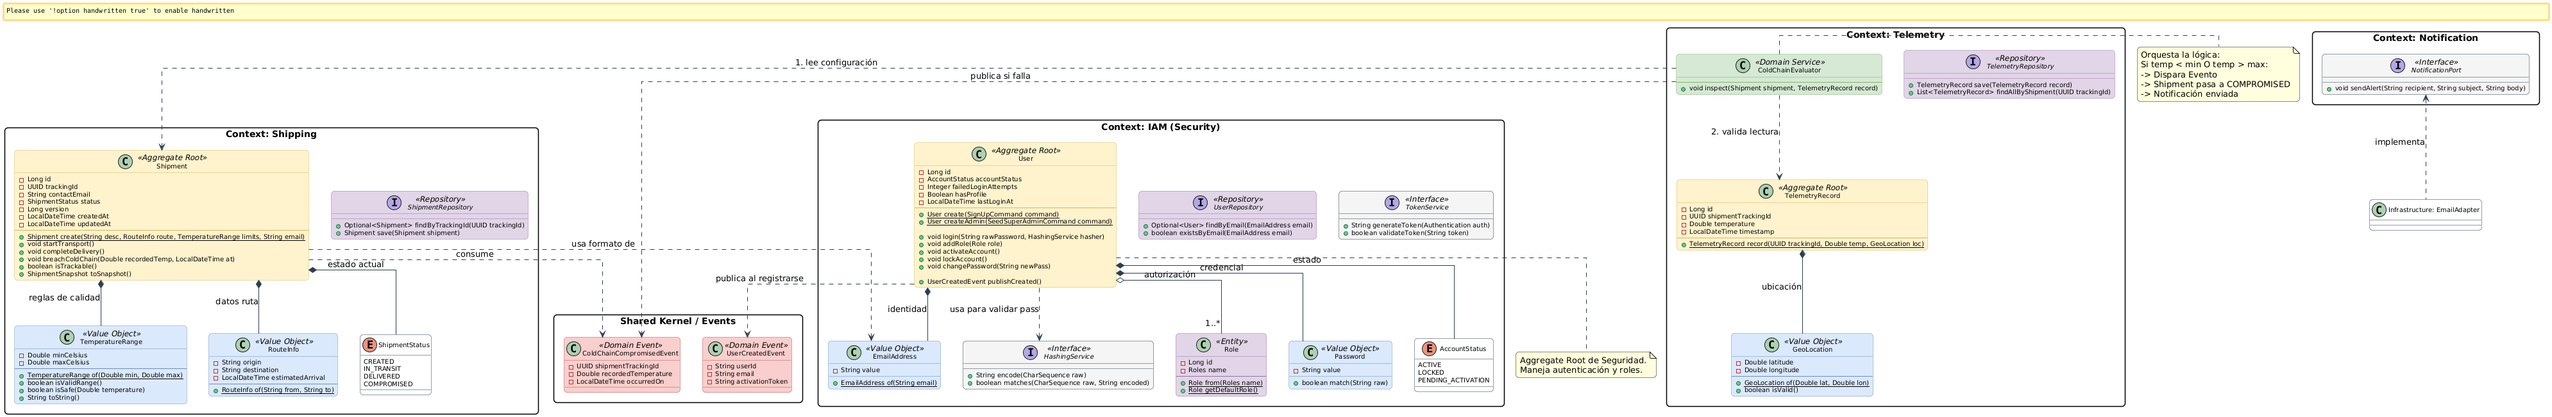
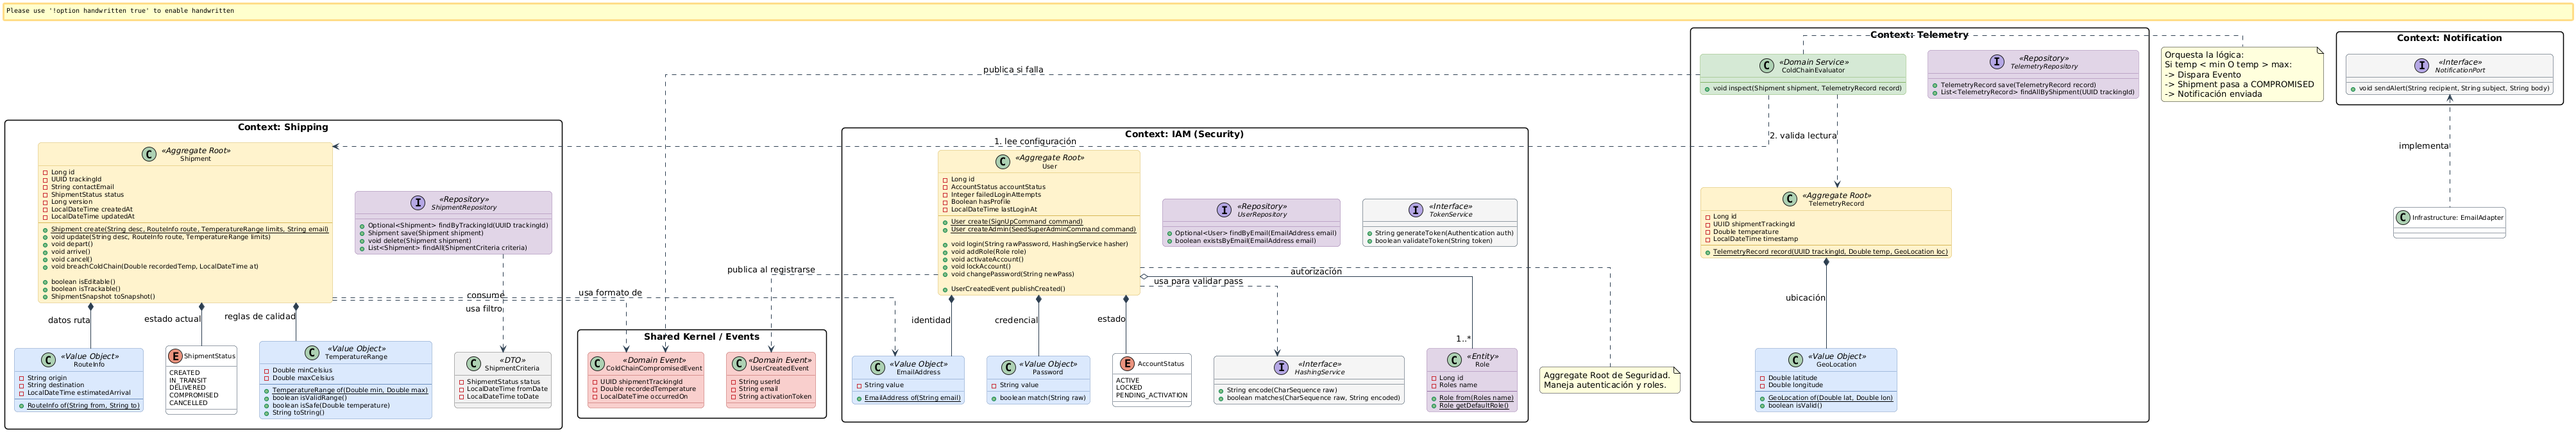
docs: add shipment modification stories and update class diagram
Added 3 user stories regarding shipment updates and cancellation.
Refactored the class diagram to support this new functionality.

diff --git a/README.md b/README.md
@@ -25,15 +25,18 @@ Para acotar el alcance del MVP, he identificado dos actores principales que inte
 
 ### 2. Product backlog
 
-| Story ID | Título                                       | Descripción                                                                                                                                                                                        | Criterios de aceptación                                                                                                                                                                                                                                                                                                                                                                                                                                                                                                                                                                                                                                                                                                                                                                                                                                        |
-|----------|----------------------------------------------|----------------------------------------------------------------------------------------------------------------------------------------------------------------------------------------------------|----------------------------------------------------------------------------------------------------------------------------------------------------------------------------------------------------------------------------------------------------------------------------------------------------------------------------------------------------------------------------------------------------------------------------------------------------------------------------------------------------------------------------------------------------------------------------------------------------------------------------------------------------------------------------------------------------------------------------------------------------------------------------------------------------------------------------------------------------------------|
-| US01     | **Registro de nuevo envío (Shipment)**       | Como operador logístico, quiero registrar un nuevo envío en el sistema definiendo sus metadatos y rangos de seguridad, para iniciar el ciclo de vida de transporte monitoreado.                    | **Escenario 1: Registro exitoso (Happy Path)**<br>Given el operador tiene los datos del envío<br>When ingresa Descripción="Vacunas COVID", TempMin=2.0, TempMax=8.0<br>Then el sistema crea el envío con estado "CREATED"<br>And genera un ID único de seguimiento (UUID).<br><br>**Escenario 2: Validación de rangos inválidos (Unhappy Path)**<br>Given el operador intenta crear un envío<br>When ingresa TempMin=10.0 y TempMax=5.0<br>Then el sistema rechaza la operación<br>And muestra el error "La temperatura mínima no puede ser mayor a la máxima".<br><br>**Escenario 3: Datos incompletos (Unhappy Path)**<br>Given el operador omite el cliente destinatario<br>When intenta guardar<br>Then el sistema muestra error de "Campos obligatorios requeridos".                                                                                      |
-| US02     | **Cambio de estado a "En tránsito"**         | Como operador logístico, quiero cambiar el estado del envío a "IN_TRANSIT" cuando el camión sale del almacén, para habilitar la recepción de lecturas de sensores.                                 | **Escenario 1: Despacho exitoso (Happy Path)**<br>Given un envío en estado "CREATED"<br>When el operador selecciona "Iniciar Transporte"<br>Then el estado cambia a "IN_TRANSIT".<br><br>**Escenario 2: Transición ilegal (Unhappy Path)**<br>Given un envío que ya fue finalizado ("DELIVERED")<br>When el operador intenta iniciarlo nuevamente<br>Then el sistema bloquea la acción indicando que el flujo ya concluyó.                                                                                                                                                                                                                                                                                                                                                                                                                                     |
-| US03     | **Registro de telemetría (Checkpoint)**      | Como sensor IoT (sistema externo), quiero enviar lecturas periódicas de ubicación y temperatura al sistema, para mantener la trazabilidad del activo en tiempo real.                               | **Escenario 1: Lectura válida (Happy Path)**<br>Given un envío existente en estado "IN_TRANSIT"<br>When el sensor envía {Lat: -12.04, Lon: -77.04, Temp: 5.0, Date: Now}<br>Then el sistema registra el checkpoint asociado al envío<br>And responde con código HTTP 201 (Created).<br><br>**Escenario 2: Envío inexistente (Unhappy Path)**<br>Given un ID de envío incorrecto<br>When el sensor envía datos<br>Then el sistema responde con error HTTP 404 (Not Found).<br><br>**Escenario 3: Datos corruptos (Unhappy Path)**<br>Given una lectura sin datos de temperatura<br>When el sensor envía la petición<br>Then el sistema rechaza la solicitud (Bad Request).                                                                                                                                                                                      |
-| US04     | **Evaluación automática de integridad**      | Como sistema (backend), quiero evaluar cada nueva lectura de temperatura contra los límites configurados del envío, para determinar automáticamente si la cadena de frío se ha roto.               | **Escenario 1: Temperatura dentro de rango (Happy Path)**<br>Given un envío con rango [2.0, 8.0] en estado "IN_TRANSIT"<br>When llega una lectura de 5.0 grados<br>Then se registra el checkpoint<br>And el estado del envío se mantiene en "IN_TRANSIT".<br><br>**Escenario 2: Violación de Límite superior (Business rule)**<br>Given un envío con rango [2.0, 8.0] en estado "IN_TRANSIT"<br>When llega una lectura de 9.5 grados<br>Then el sistema cambia automáticamente el estado del envío a "COMPROMISED"<br>And registra el evento de dominio "ChainOfColdBroken".<br><br>**Escenario 3: Persistencia de falla (Invariante)**<br>Given un envío que ya está en estado "COMPROMISED"<br>When llega una nueva lectura perfecta de 4.0 grados<br>Then se registra el checkpoint<br>But el estado del envío PERMANECE en "COMPROMISED" (no se recupera). |
-| US05     | **Consulta de historial y estado**           | Como operador logístico, quiero ver el detalle de un envío y su lista de checkpoints, para auditar qué sucedió durante el transporte.                                                              | **Escenario 1: Consulta detallada (Happy Path)**<br>Given un envío con 5 registros de telemetría<br>When el usuario solicita el detalle<br>Then el sistema devuelve la información del envío, su estado actual<br>And una lista de 5 checkpoints ordenados cronológicamente descendente.<br><br>**Escenario 2: Visualización de alerta**<br>Given un envío en estado "COMPROMISED"<br>When el usuario ve el detalle<br>Then la interfaz debe indicar visualmente (flag rojo) que el producto no es apto.                                                                                                                                                                                                                                                                                                                                                       |
-| US06     | **Finalización de envío (Delivery)**         | Como operador logístico, quiero marcar el envío como entregado cuando llega a destino, para cerrar el ciclo de monitoreo.                                                                          | **Escenario 1: Entrega exitosa (Happy Path)**<br>Given un envío en estado "IN_TRANSIT" o "COMPROMISED"<br>When el operador registra la entrega<br>Then el estado cambia a "DELIVERED".<br><br>**Escenario 2: Cierre prematuro**<br>Given un envío que apenas fue creado ("CREATED")<br>When se intenta finalizar<br>Then el sistema impide la acción (debe pasar por tránsito primero).                                                                                                                                                                                                                                                                                                                                                                                                                                                                        |
-| US07     | **Alerta por correo de cadena de frio rota** | Como operador logístico, , quiero recibir un correo electrónico automático cuando un envío pase a estado "COMPROMISED", para tomar acciones correctivas inmediatas sin estar mirando la pantalla.  | **Escenario 1: Envío de alerta (Happy Path)**<br>Given un envío pasa a estado "COMPROMISED" debido a temperatura alta<br>When el sistema procesa el cambio de estado<br>Then se envía un correo al administrador con el Asunto: "ALERTA: Cadena de frío rota - Envío [ID]"<br>And el correo contiene la temperatura registrada y la ubicación.<br><br>**Escenario 2: Fallo en servidor de correo (Unhappy Path)**<br>Given el servicio de correo (SMTP) no responde<br>When ocurre una incidencia<br>Then el sistema debe registrar el error en el log (no debe caerse la aplicación)<br>And el estado del envío SÍ debe cambiar a "COMPROMISED" de todas formas.                                                                                                                                                                                              | 
+| Story ID | Título                                       | Descripción                                                                                                                                                                                       | Criterios de aceptación                                                                                                                                                                                                                                                                                                                                                                                                                                                                                                                                                                                                                                                                                                                                                                                                                                        |
+|----------|----------------------------------------------|---------------------------------------------------------------------------------------------------------------------------------------------------------------------------------------------------|----------------------------------------------------------------------------------------------------------------------------------------------------------------------------------------------------------------------------------------------------------------------------------------------------------------------------------------------------------------------------------------------------------------------------------------------------------------------------------------------------------------------------------------------------------------------------------------------------------------------------------------------------------------------------------------------------------------------------------------------------------------------------------------------------------------------------------------------------------------|
+| US01     | **Registro de nuevo envío (Shipment)**       | Como operador logístico, quiero registrar un nuevo envío en el sistema definiendo sus metadatos y rangos de seguridad, para iniciar el ciclo de vida de transporte monitoreado.                   | **Escenario 1: Registro exitoso (Happy Path)**<br>Given el operador tiene los datos del envío<br>When ingresa Descripción="Vacunas COVID", TempMin=2.0, TempMax=8.0<br>Then el sistema crea el envío con estado "CREATED"<br>And genera un ID único de seguimiento (UUID).<br><br>**Escenario 2: Validación de rangos inválidos (Unhappy Path)**<br>Given el operador intenta crear un envío<br>When ingresa TempMin=10.0 y TempMax=5.0<br>Then el sistema rechaza la operación<br>And muestra el error "La temperatura mínima no puede ser mayor a la máxima".<br><br>**Escenario 3: Datos incompletos (Unhappy Path)**<br>Given el operador omite el cliente destinatario<br>When intenta guardar<br>Then el sistema muestra error de "Campos obligatorios requeridos".                                                                                      |
+| US02     | **Cambio de estado a "En tránsito"**         | Como operador logístico, quiero cambiar el estado del envío a "IN_TRANSIT" cuando el camión sale del almacén, para habilitar la recepción de lecturas de sensores.                                | **Escenario 1: Despacho exitoso (Happy Path)**<br>Given un envío en estado "CREATED"<br>When el operador selecciona "Iniciar Transporte"<br>Then el estado cambia a "IN_TRANSIT".<br><br>**Escenario 2: Transición ilegal (Unhappy Path)**<br>Given un envío que ya fue finalizado ("DELIVERED")<br>When el operador intenta iniciarlo nuevamente<br>Then el sistema bloquea la acción indicando que el flujo ya concluyó.                                                                                                                                                                                                                                                                                                                                                                                                                                     |
+| US03     | **Registro de telemetría (Checkpoint)**      | Como sensor IoT (sistema externo), quiero enviar lecturas periódicas de ubicación y temperatura al sistema, para mantener la trazabilidad del activo en tiempo real.                              | **Escenario 1: Lectura válida (Happy Path)**<br>Given un envío existente en estado "IN_TRANSIT"<br>When el sensor envía {Lat: -12.04, Lon: -77.04, Temp: 5.0, Date: Now}<br>Then el sistema registra el checkpoint asociado al envío<br>And responde con código HTTP 201 (Created).<br><br>**Escenario 2: Envío inexistente (Unhappy Path)**<br>Given un ID de envío incorrecto<br>When el sensor envía datos<br>Then el sistema responde con error HTTP 404 (Not Found).<br><br>**Escenario 3: Datos corruptos (Unhappy Path)**<br>Given una lectura sin datos de temperatura<br>When el sensor envía la petición<br>Then el sistema rechaza la solicitud (Bad Request).                                                                                                                                                                                      |
+| US04     | **Evaluación automática de integridad**      | Como sistema (backend), quiero evaluar cada nueva lectura de temperatura contra los límites configurados del envío, para determinar automáticamente si la cadena de frío se ha roto.              | **Escenario 1: Temperatura dentro de rango (Happy Path)**<br>Given un envío con rango [2.0, 8.0] en estado "IN_TRANSIT"<br>When llega una lectura de 5.0 grados<br>Then se registra el checkpoint<br>And el estado del envío se mantiene en "IN_TRANSIT".<br><br>**Escenario 2: Violación de Límite superior (Business rule)**<br>Given un envío con rango [2.0, 8.0] en estado "IN_TRANSIT"<br>When llega una lectura de 9.5 grados<br>Then el sistema cambia automáticamente el estado del envío a "COMPROMISED"<br>And registra el evento de dominio "ChainOfColdBroken".<br><br>**Escenario 3: Persistencia de falla (Invariante)**<br>Given un envío que ya está en estado "COMPROMISED"<br>When llega una nueva lectura perfecta de 4.0 grados<br>Then se registra el checkpoint<br>But el estado del envío PERMANECE en "COMPROMISED" (no se recupera). |
+| US05     | **Consulta de historial y estado**           | Como operador logístico, quiero ver el detalle de un envío y su lista de checkpoints, para auditar qué sucedió durante el transporte.                                                             | **Escenario 1: Consulta detallada (Happy Path)**<br>Given un envío con 5 registros de telemetría<br>When el usuario solicita el detalle<br>Then el sistema devuelve la información del envío, su estado actual<br>And una lista de 5 checkpoints ordenados cronológicamente descendente.<br><br>**Escenario 2: Visualización de alerta**<br>Given un envío en estado "COMPROMISED"<br>When el usuario ve el detalle<br>Then la interfaz debe indicar visualmente (flag rojo) que el producto no es apto.                                                                                                                                                                                                                                                                                                                                                       |
+| US06     | **Finalización de envío (Delivery)**         | Como operador logístico, quiero marcar el envío como entregado cuando llega a destino, para cerrar el ciclo de monitoreo.                                                                         | **Escenario 1: Entrega exitosa (Happy Path)**<br>Given un envío en estado "IN_TRANSIT" o "COMPROMISED"<br>When el operador registra la entrega<br>Then el estado cambia a "DELIVERED".<br><br>**Escenario 2: Cierre prematuro**<br>Given un envío que apenas fue creado ("CREATED")<br>When se intenta finalizar<br>Then el sistema impide la acción (debe pasar por tránsito primero).                                                                                                                                                                                                                                                                                                                                                                                                                                                                        |
+| US07     | **Alerta por correo de cadena de frio rota** | Como operador logístico, , quiero recibir un correo electrónico automático cuando un envío pase a estado "COMPROMISED", para tomar acciones correctivas inmediatas sin estar mirando la pantalla. | **Escenario 1: Envío de alerta (Happy Path)**<br>Given un envío pasa a estado "COMPROMISED" debido a temperatura alta<br>When el sistema procesa el cambio de estado<br>Then se envía un correo al administrador con el Asunto: "ALERTA: Cadena de frío rota - Envío [ID]"<br>And el correo contiene la temperatura registrada y la ubicación.<br><br>**Escenario 2: Fallo en servidor de correo (Unhappy Path)**<br>Given el servicio de correo (SMTP) no responde<br>When ocurre una incidencia<br>Then el sistema debe registrar el error en el log (no debe caerse la aplicación)<br>And el estado del envío SÍ debe cambiar a "COMPROMISED" de todas formas.                                                                                                                                                                                              |
+| US-08    | **Dashboard de operaciones (Filtrado)**      | Como operador logístico, quiero listar los envíos filtrando por estado (ej. solo "En Tránsito") o fecha, para priorizar mi atención en los activos activos.                                       | **Escenario 1: Filtro por estado.**<br>Given existen 50 envíos (20 entregados, 30 en tránsito)<br>When filtro por "IN_TRANSIT"<br>Then obtengo una lista paginada de 30 envíos.<br><br>**Escenario 2: Búsqueda vacía.**<br>When no envío filtros<br>Then obtengo los últimos 20 envíos creados (paginación por defecto).                                                                                                                                                                                                                                                                                                                                                                                                                                                                                                                                       |
+| US-09    | **Cancelación de envíos**                    | Como operador lógistico, quiero cancelar un envío que fue registrado por error, para mantener limpio el inventario.                                                                               | **Escenario 1: Cancelación válida.**<br>Given un envío en estado "CREATED"<br>When solicito cancelar<br>Then el envío se elimina o pasa a estado "CANCELLED".<br><br>**Escenario 2: Regla de invariante.**<br>Given un envío "IN_TRANSIT"<br>When intento cancelar<br>Then el sistema rechaza la operación (ya salió del almacén).                                                                                                                                                                                                                                                                                                                                                                                                                                                                                                                             |
+| US-10    | **Actualización de envío (Edición)**         | Como operador lógistico, quiero corregir los datos de un envío (descripción, contacto, límites) antes de que salga, para subsanar errores manuales.                                               | **Escenario 1: Edición exitosa (Happy Path).**<br>Given un envío en estado "CREATED"<br>When modifico la temperatura máxima de 5.0 a 6.0<br>Then el sistema guarda los cambios.<br><br>**Escenario 2: Bloqueo por invariante.**<br>Given un envío que ya salió ("IN_TRANSIT")<br>When intento modificar los rangos de temperatura<br>Then el sistema rechaza la edición (las reglas no se cambian a mitad de viaje).                                                                                                                                                                                                                                                                                                                                                                                                                                           |
 
 ### 3. Arquitectura de Software
 Se ha diseñado una arquitectura basada en Clean Architecture y Domain-Driven Design (DDD). A continuación, se detallan los diferentes niveles de abstracción según el modelo C4.
@@ -57,11 +60,11 @@ Asimismo, se ha reutilizado en gran medida el contexto IAM (Identity and Access 
 
 ### 4. Diseño de la solución (Tactical DDD)
 
-### 4.1. Diagrama de Clases
+### 4.1. Diagrama de clases
 
 ![PharmaCold_Track_Class_Diagram.png](assets/PharmaCold_Track_Class_Diagram.png)
 
-### 4.2. Diagrama de Base de Datos
+### 4.2. Diagrama de base de datos
 
 ![PharmaCold_Track_DB_Diagram.png](assets/PharmaCold_Track_DB_Diagram.png)
 
